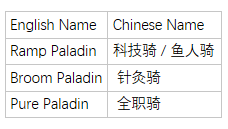
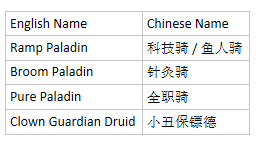
update new profile

diff --git a/19.6.X.xxxxx/standard/Clown_Guardian_Druid小丑保镖德/Archetypes/SMK/SMK_Guardian_Druid.cs b/19.6.X.xxxxx/standard/Clown_Guardian_Druid小丑保镖德/Archetypes/SMK/SMK_Guardian_Druid.cs
@@ -1,0 +1,70 @@
+using System;
+using System.Collections.Generic;
+using System.Linq;
+using SmartBot.Database;
+using SmartBot.Plugins.API;
+
+//
+//NGA精英玩家俱乐部一键生成工具
+//https://hs.fbigame.com/
+//
+
+//version 0004 for profile 2.0+
+
+/* 
+ * 
+ * https://github.com/Waldo-Schaeffer
+ * https://gitee.com/m586
+ * Copyleft 2016 - 2021 SunGuanqi. All Rights Reserved
+ * Attribution 4.0 International (Attribution 4.0 International (CC-BY-SA 4.0)
+ * 使用时请遵守知识共享署名 4.0 国际许可协议，且不可删除本版权信息
+ * 
+ */
+ 
+namespace SmartBotAPI.Plugins.API
+{
+
+    public class SMK_Guardian_Druid : Archetype
+    {
+        public string ArchetypeName()
+        {
+            return "SMK_Guardian_Druid";
+        }
+
+        public List<Card.Cards> ArchetypeCardSet()
+        {
+            return new List<Card.Cards>()
+            {  //0
+               Card.Cards.EX1_169,//激活 Innervate ID：EX1_169
+			   Card.Cards.SCH_427,//雷霆绽放 Lightning Bloom ID：SCH_427
+			   //1
+			   Card.Cards.DAL_350,//水晶之力 Crystal Power ID：DAL_350
+			   Card.Cards.SCH_333,//自然研习 Nature Studies ID：SCH_333
+			   //2
+			   Card.Cards.DRG_318,//梦境吐息 Breath of Dreams ID：DRG_318
+			   Card.Cards.DMF_730,//月触项链 Moontouched Amulet ID：DMF_730
+			   //3
+			   Card.Cards.YOP_025,//迷梦幼龙 Dreaming Drake ID：YOP_025
+			   Card.Cards.CS2_013, //野性成长 Wild Growth ID：CS2_013
+			   //4
+			   Card.Cards.BT_130,//过度生长 Overgrowth ID：BT_130
+			   //5
+			   Card.Cards.SCH_616,//夜行虎 Twilight Runner ID：SCH_616
+			   Card.Cards.YOP_035,//月牙 Moonfang ID：YOP_035
+			   Card.Cards.SCH_605,//止水湖蛇颈龙 Lake Thresher ID：SCH_605
+			   Card.Cards.ULD_138,//阿努比萨斯防御者 Anubisath Defender ID：ULD_138
+			   //7
+			   Card.Cards.DMF_078,//大力士 Strongman ID：DMF_078
+			   Card.Cards.ULD_273,//溢流 Overflow ID：ULD_273
+			   //8
+			   Card.Cards.SCH_610,//动物保镖 Guardian Animals ID：SCH_610
+			   //9
+			   Card.Cards.DRG_320,//觉醒巨龙伊瑟拉 Ysera, Unleashed ID：DRG_320
+			   Card.Cards.DMF_163,//狂欢小丑 Carnival Clown ID：DMF_163
+			   //10
+			   Card.Cards.SCH_609,//优胜劣汰 Survival of the Fittest ID：SCH_609
+
+            };
+        }
+    }
+}
